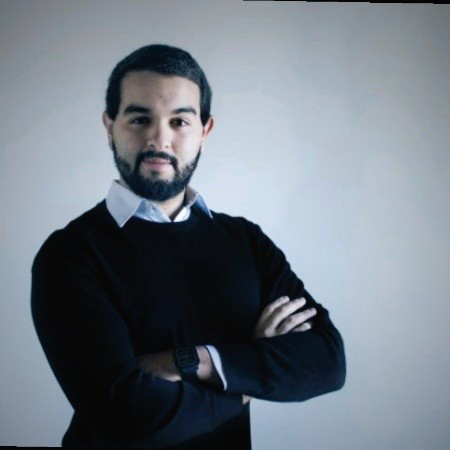
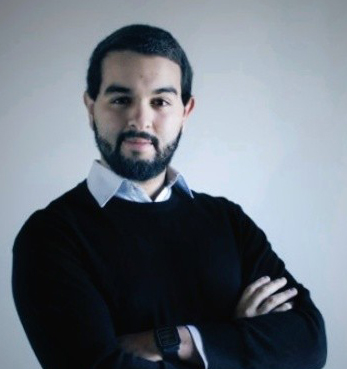
About done. Todo responsive checks

diff --git a/public/assets/css/main.css b/public/assets/css/main.css
@@ -3530,7 +3530,7 @@ body.is-loading #sidebar nav ul li {
 /* ABOUT US */
 
 .team {
-  height: 203px;
+  min-height: 270px;
   margin: auto;
 }
 
@@ -3543,7 +3543,7 @@ body.is-loading #sidebar nav ul li {
 }
 
 .card img {
-  width: 100px;
+  width: 120px;
   border-radius: 50%;
   border: 3px solid #fff;
 }
@@ -3565,4 +3565,18 @@ body.is-loading #sidebar nav ul li {
 .card p {
   font-style: italic;
   font-size: 16px;
+}
+
+.card a {
+  border: 0;
+}
+
+.team ul {
+  cursor: default;
+  list-style: none;
+  padding-left: 0;
+}
+
+.team ul li {
+  display: inline-block;
 }
